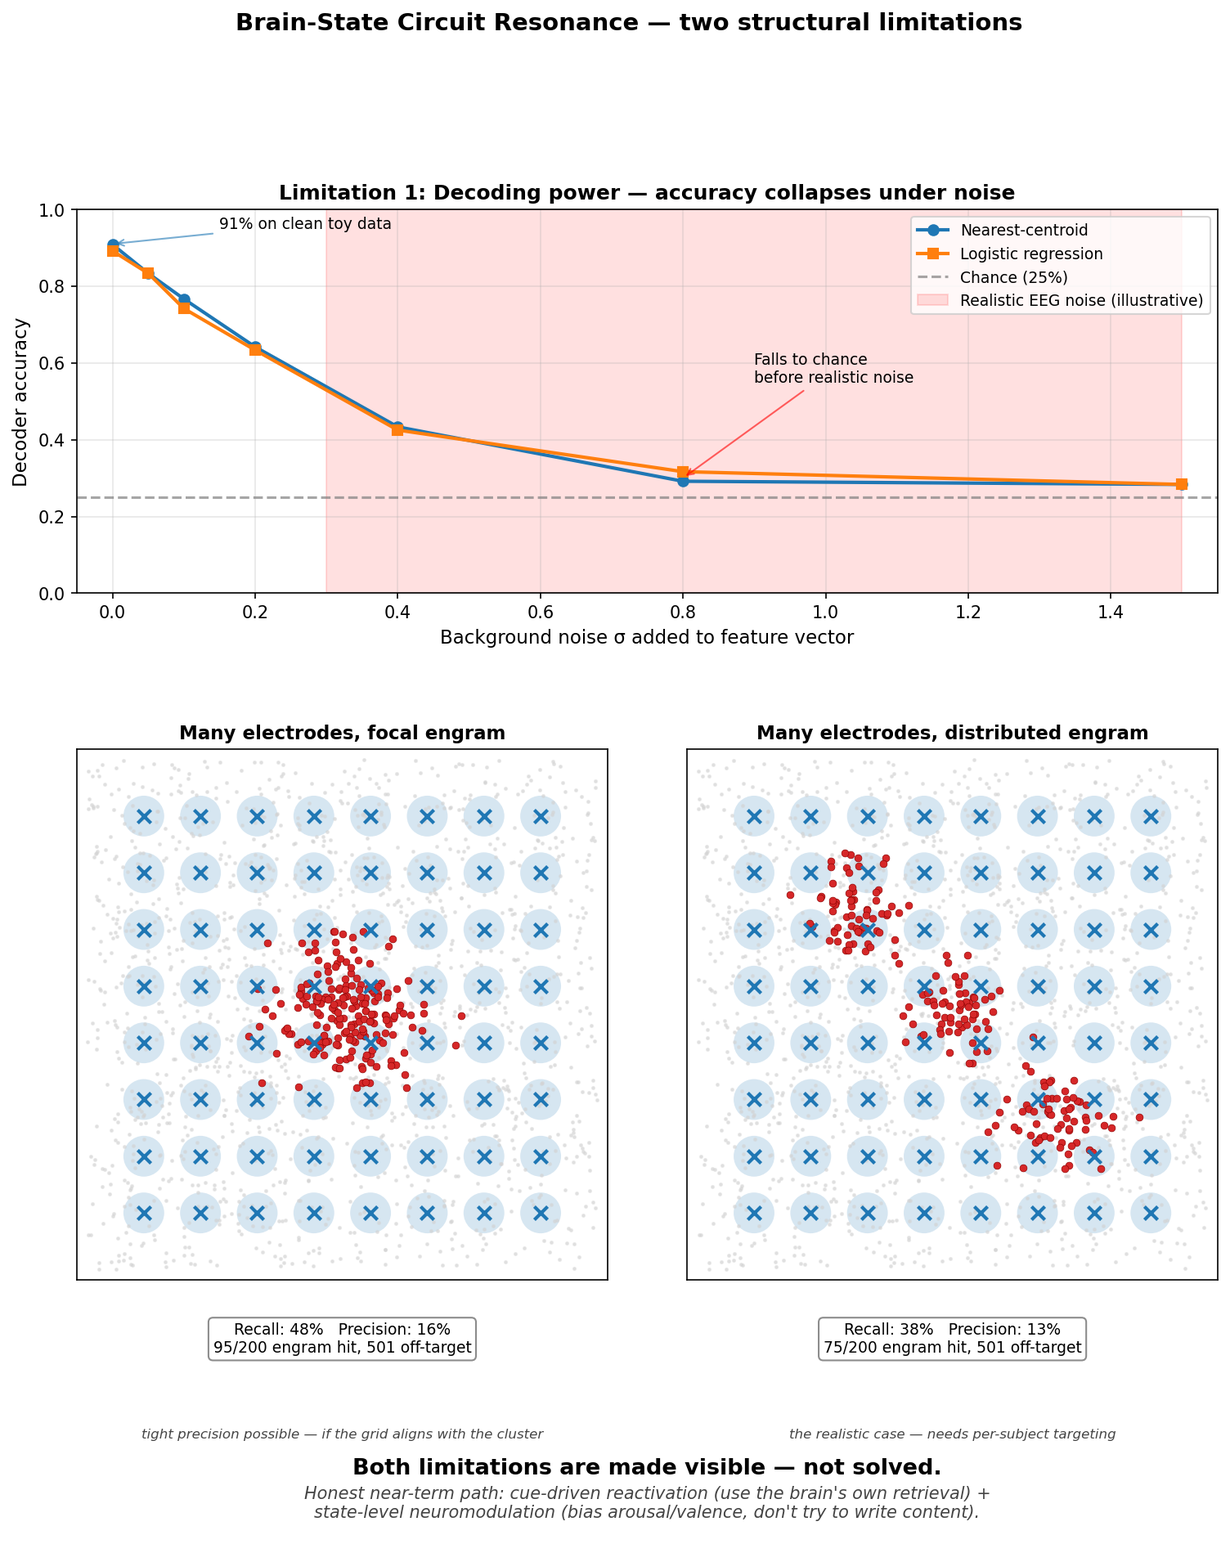
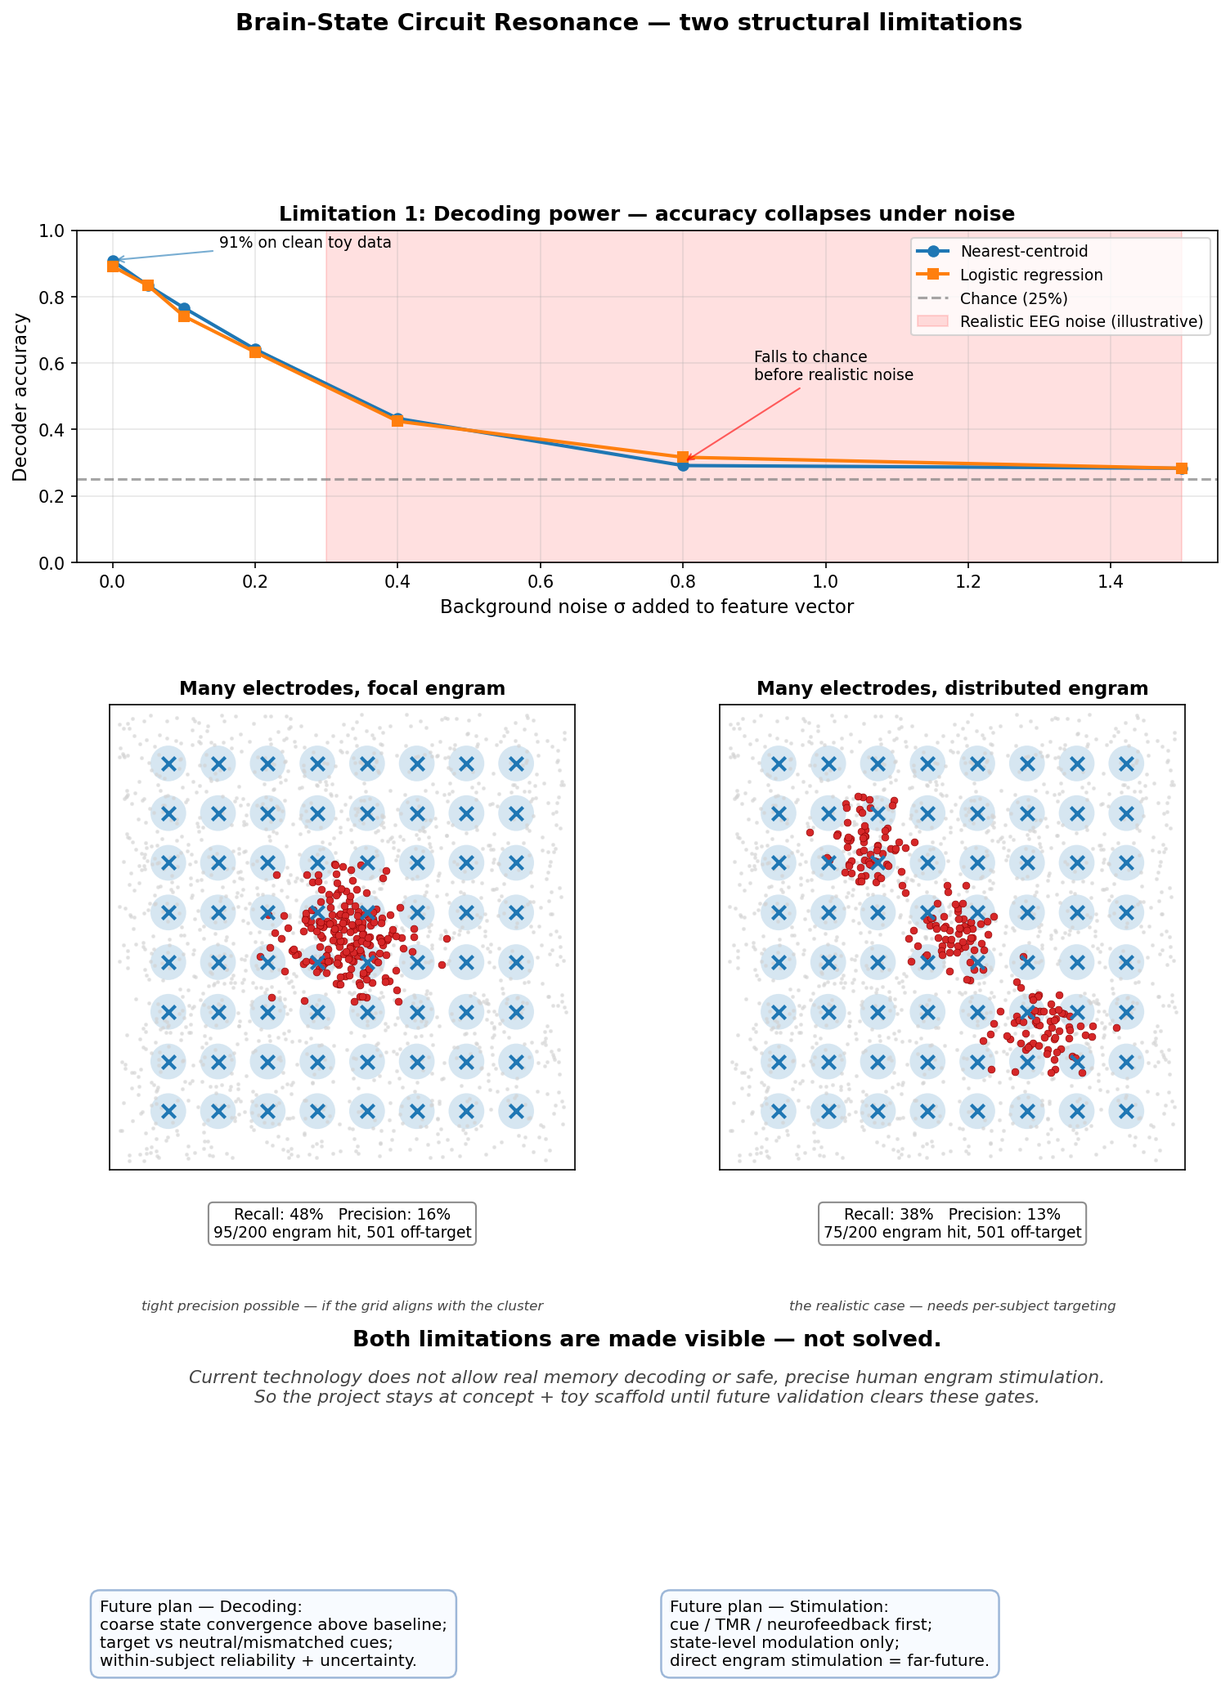
docs: clarify limitations and future plans

diff --git a/project-brief.html b/project-brief.html
@@ -9,6 +9,8 @@
 <body class="brief-page">
   <header class="brief-hero">
     <nav class="journey-nav" aria-label="Project navigation">
+      <a href="index.html">Home</a>
+      <a href="#presentation-path">Start</a>
       <a href="project-brief.html" aria-current="page">Project brief</a>
       <a href="journey.html">Process journey</a>
       <a href="index.html">3D mindmap</a>
@@ -18,7 +20,7 @@
     <p class="eyebrow">Project brief</p>
     <h1>Brain-State Circuit Resonance</h1>
     <p class="thesis">Photos record what we saw. Brain-State Circuit Replay asks whether we can reconstruct what we were.</p>
-    <p class="brief-hook"><strong>Public boundary:</strong> this site uses Brain-State Circuit Resonance for the careful version: bounded, partial state resonance rather than exact replay, literal time travel, or current brain-state reconstruction.</p>
+    <p class="brief-hook"><strong>Public boundary:</strong> this site uses Brain-State Circuit Resonance for the careful version: bounded, partial state resonance rather than exact replay, literal time travel, or current brain-state reconstruction. <strong>Resonance over Recreation:</strong> any past-associated state work should return the person to present agency, not trap them in the past.</p>
     <p class="brief-hook">This project turns the fear that a meaningful present is unrevisitable into a bounded neuroscience/BCI and systems-engineering thesis: a future closed-loop scaffold may help people safely re-approach parts of a past-associated integrated self-state, while keeping uncertainty, validation boundaries, exact memory replay, literal time travel, and brain-derived claims outside the current scope.</p>
   </header>
 
@@ -46,6 +48,7 @@
           <li><strong>Open this brief first.</strong> State the hook and the boundary before showing the demo.</li>
           <li><strong>Show the process journey.</strong> Walk through the path from motivation to state estimation, uncertainty, and safety gate.</li>
           <li><strong>Open the 3D mindmap.</strong> Use it as a concept map and systems scaffold, not as evidence that the system reads brains.</li>
+          <li><strong>Close with future research.</strong> Use the horizon page to separate open questions from implemented capabilities.</li>
           <li><strong>End with next engineering milestones.</strong> Explain how the thesis becomes stronger through literature mapping, toy state-space modeling, validation criteria, and explicit ethics.</li>
         </ol>
       </section>
@@ -231,7 +234,7 @@
         <p class="eyebrow">Current artifacts</p>
         <h2>What Exists in This Repository</h2>
         <div class="artifact-list">
-          <a href="journey.html"><strong>Process journey</strong><span>Six-step walkthrough of the argument and safety gate.</span></a>
+          <a href="journey.html"><strong>Process journey</strong><span>Seven-step walkthrough from motivation to safety gate and future research horizon.</span></a>
           <a href="index.html"><strong>3D mindmap</strong><span>Interactive concept map separating known science, plausible bridge, and speculation.</span></a>
           <a href="#problem"><strong>Full thesis summary</strong><span>Readable synthesis of the Unreturnable Present Paradox and integrated self-state model.</span></a>
           <a href="#scientific-anchors"><strong>Research anchors</strong><span>Presentation-safe summary of memory, TMR, closed-loop stimulation, prostheses, and neurofeedback.</span></a>
@@ -266,6 +269,8 @@
         <p class="eyebrow">Next steps</p>
         <h2>How to Make It Stronger</h2>
         <ul>
+          <li><strong>Decoding plan:</strong> make the next empirical target coarse state convergence above baseline, not memory decoding. Compare target cues with neutral/mismatched cues, require within-subject reliability, and show uncertainty instead of a single replay score.</li>
+          <li><strong>Stimulation plan:</strong> treat direct engram stimulation as far-future. Lead with cue-driven reactivation, Targeted Memory Reactivation, neurofeedback, and state-level modulation; require reversibility, stop criteria, and off-target risk checks before any stronger intervention.</li>
           <li>Extend the citation table with claim status, modality, validation boundary, and limitation columns.</li>
           <li>Add a small attractor/state-space simulation showing why partial reconstruction is possible in toy form but exact replay is unstable.</li>
           <li>Add a privacy and consent threat model for any future brain/body-state recording layer.</li>

diff --git a/future-research.html b/future-research.html
@@ -9,6 +9,8 @@
 <body class="brief-page">
   <header class="brief-hero">
     <nav class="journey-nav" aria-label="Project navigation">
+      <a href="index.html">Home</a>
+      <a href="project-brief.html#presentation-path">Start</a>
       <a href="project-brief.html">Project brief</a>
       <a href="journey.html">Process journey</a>
       <a href="index.html">3D mindmap</a>
@@ -51,7 +53,7 @@
           <li><strong>Neuralink surgical robot / implantation workflow reports:</strong> treat as secondary and low-confidence until an official source is added to this page. The interesting signal is infrastructure: reports describe efforts to make electrode-thread implantation more repeatable and scalable. That matters for future BCI access, but implantation repeatability is not decoding, and it says nothing by itself about memory reconstruction. <a href="https://www.eandtmagazine.com/2026/05/01/neuralink-builds-surgical-robot-implant-its-brain-chip-humans">Secondary report</a></li>
           <li><strong>arXiv 2605.04680, "Multi-Level Bidirectional Biomimetic Learning for EEG-Based Visual Decoding" (2026-05-06):</strong> watch as an EEG visual-decoding representation paper, not as exact memory reading. The relevant boundary for Resonance is that reconstructing or aligning visual representations from EEG remains a lossy model output tied to task data, not access to a private remembered scene. <a href="https://arxiv.org/abs/2605.04680">arXiv</a></li>
           <li><strong>arXiv 2605.03874, "Spatiotemporal Convolutions on EEG signal -- A Representation Learning Perspective on Efficient and Explainable EEG Classification with Convolutional Neural Nets" (2026-05-05):</strong> watch for efficient EEG state-classification methods and explainability claims. The boundary is classification: separating task or state labels from EEG features is not the same as reading a lived self-state or recovering a circuit trace. <a href="https://arxiv.org/abs/2605.03874">arXiv</a></li>
-          <li><strong>arXiv 2605.03169, "NeuralSet: A High-Performing Python Package for Neuro-AI" (2026-05-04):</strong> watch as possible tooling and scaffold relevance. A PyTorch-ready neuro-AI data interface could inform future simulation, provenance, or multimodal dataset organization, but it would not validate the current toy model or supply biological evidence by itself. <a href="https://arxiv.org/abs/2605.03169">arXiv</a></li>
+          <li><strong>arXiv 2605.03169, "NeuralSet: A High-Performing Python Package for Neuro-AI" (2026-05-04):</strong> watch for possible tooling and scaffold relevance. A PyTorch-ready neuro-AI data interface could inform future simulation, provenance, or multimodal dataset organization, but it would not validate the current toy model or supply biological evidence by itself. <a href="https://arxiv.org/abs/2605.03169">arXiv</a></li>
         </ul>
         <p class="brief-caveat"><strong>Presentation boundary:</strong> cite these as signals to monitor, not claims to import. The current project remains a concept and synthetic simulation scaffold.</p>
       </section>

diff --git a/src/journey.js b/src/journey.js
@@ -38,8 +38,9 @@
     },
     {
       icon: '🌌',
-      title: 'Open horizon: what science cannot do yet',
-      copy: 'The project ends by naming future research questions rather than pretending they are solved: encoding-imminence, configured ignorance, affective topology, sleep-integrated resonance, personal corpus state archaeology, and voluntary loosening of unwanted state-attractors.',
+      title: 'Future research horizon',
+      copy: 'The journey ends by naming what remains unsolved: encoding-imminence, configured ignorance, affective topology, sleep resonance, corpus archaeology, and safe loosening of unwanted state-attractors.',
+      href: 'future-research.html',
       values: { body: 64, attention: 88, emotion: 74, context: 82, selfModel: 86, meaning: 96, ignorance: 78, safety: 90 }
     }
   ];
@@ -48,6 +49,7 @@
   const stepCount = document.getElementById('stepCount');
   const stepTitle = document.getElementById('stepTitle');
   const stepCopy = document.getElementById('stepCopy');
+  const stepLink = document.getElementById('stepLink');
   const prev = document.getElementById('prevStep');
   const next = document.getElementById('nextStep');
   const bars = {
@@ -83,6 +85,12 @@
     stepCount.textContent = `Step ${activeIndex + 1} of ${steps.length}`;
     stepTitle.textContent = step.title;
     stepCopy.textContent = step.copy;
+    if (step.href) {
+      stepLink.href = step.href;
+      stepLink.classList.remove('hidden');
+    } else {
+      stepLink.classList.add('hidden');
+    }
 
     Object.entries(step.values).forEach(([key, value]) => {
       bars[key].value = value;

diff --git a/journey.html b/journey.html
@@ -9,6 +9,8 @@
 <body class="journey-page">
   <header class="journey-header">
     <nav class="journey-nav" aria-label="Project navigation">
+      <a href="index.html">Home</a>
+      <a href="project-brief.html#presentation-path">Start</a>
       <a href="project-brief.html">Project brief</a>
       <a href="index.html">3D mindmap</a>
       <a href="project-brief.html#thesis">Thesis</a>
@@ -31,6 +33,7 @@
         <p class="step-count" id="stepCount"></p>
         <h2 id="stepTitle"></h2>
         <p id="stepCopy"></p>
+        <a class="doc-button journey-step-link hidden" id="stepLink" href="future-research.html">Open future research horizon</a>
         <div class="state-panel" aria-label="Conceptual state dimensions">
           <div class="state-bar"><span>Body</span><meter id="barBody" min="0" max="100"></meter></div>
           <div class="state-bar"><span>Attention</span><meter id="barAttention" min="0" max="100"></meter></div>
@@ -56,7 +59,7 @@
 
   <aside class="comments-drawer" id="commentsDrawer" aria-label="Comment Mode" aria-hidden="true"></aside>
 
-  <script src="src/journey.js?v=comment-mode-v1"></script>
+  <script src="src/journey.js?v=unreturnable-present-v2"></script>
   <script src="src/comments.js?v=comment-mode-v1"></script>
 </body>
 </html>

diff --git a/index.html b/index.html
@@ -14,6 +14,7 @@
     </section>
 
     <nav class="quick-dock" aria-label="Primary navigation">
+      <a class="dock-button" href="project-brief.html#presentation-path">Start here</a>
       <a class="dock-button" href="project-brief.html">Project brief</a>
       <a class="dock-button" href="journey.html">Guided journey</a>
       <a class="dock-button" href="docs/unreturnable-present-paradox.md">Thesis doc</a>
@@ -126,6 +127,7 @@
 
     <aside class="first-visit-strip" id="firstVisitStrip" aria-label="How to start">
       <button class="overlay-close" type="button" data-close-target="firstVisitStrip" aria-label="Hide quick start">×</button>
+      <p><strong>Boundary:</strong> this mindmap is a concept scaffold, not a brain recording, memory decoder, clinical tool, or medical claim.</p>
       <ol>
         <li><span>1</span><strong>Read the project brief</strong></li>
         <li><span>2</span><strong>Use guided journey</strong></li>

diff --git a/style.css b/style.css
@@ -415,6 +415,13 @@ h1 {
   list-style: none;
 }
 
+.first-visit-strip p {
+  margin: 0 0 10px;
+  color: #f6e7aa;
+  font-size: 0.84rem;
+  line-height: 1.35;
+}
+
 .first-visit-strip li {
   display: flex;
   gap: 9px;
@@ -853,6 +860,10 @@ input[type="range"] {
 
 .doc-button.hidden {
   display: none;
+}
+
+.journey-step-link {
+  margin: 12px 0 0;
 }
 
 .boundary-card {

diff --git a/scripts/plot_limitations_figures.py b/scripts/plot_limitations_figures.py
@@ -203,8 +203,8 @@ def plot_spatial_coverage(out_path: Path, fig=None, axes=None) -> None:
 # ---------------------------------------------------------------------------
 
 def plot_summary(out_path: Path) -> None:
-    fig = plt.figure(figsize=(12, 14))
-    gs = fig.add_gridspec(3, 2, height_ratios=[1.0, 1.4, 0.25], hspace=0.45, wspace=0.15)
+    fig = plt.figure(figsize=(12, 15.5))
+    gs = fig.add_gridspec(4, 2, height_ratios=[1.0, 1.4, 0.36, 0.36], hspace=0.55, wspace=0.15)
 
     # Top: decoder curve spans both columns
     ax_top = fig.add_subplot(gs[0, :])
@@ -237,15 +237,35 @@ def plot_summary(out_path: Path) -> None:
     ax_caption = fig.add_subplot(gs[2, :])
     ax_caption.axis("off")
     ax_caption.text(
-        0.5, 0.6,
+        0.5, 0.72,
         "Both limitations are made visible — not solved.",
         ha="center", fontsize=13, fontweight="bold",
     )
     ax_caption.text(
-        0.5, 0.15,
-        "Honest near-term path: cue-driven reactivation (use the brain's own retrieval) +\n"
-        "state-level neuromodulation (bias arousal/valence, don't try to write content).",
-        ha="center", fontsize=10, style="italic", color="#444",
+        0.5, 0.25,
+        "Current technology does not allow real memory decoding or safe, precise human engram stimulation.\n"
+        "So the project stays at concept + toy scaffold until future validation clears these gates.",
+        ha="center", fontsize=10.5, style="italic", color="#444",
+    )
+
+    ax_plan = fig.add_subplot(gs[3, :])
+    ax_plan.axis("off")
+    plan_box = dict(boxstyle="round,pad=0.55", facecolor="#f8fbff", edgecolor="#9db7d8", linewidth=1.2)
+    ax_plan.text(
+        0.02, 0.5,
+        "Future plan — Decoding:\n"
+        "coarse state convergence above baseline;\n"
+        "target vs neutral/mismatched cues;\n"
+        "within-subject reliability + uncertainty.",
+        ha="left", va="center", fontsize=9.6, bbox=plan_box,
+    )
+    ax_plan.text(
+        0.52, 0.5,
+        "Future plan — Stimulation:\n"
+        "cue / TMR / neurofeedback first;\n"
+        "state-level modulation only;\n"
+        "direct engram stimulation = far-future.",
+        ha="left", va="center", fontsize=9.6, bbox=plan_box,
     )
 
     fig.suptitle("Brain-State Circuit Resonance — two structural limitations",

diff --git a/README.md b/README.md
@@ -22,12 +22,12 @@ This project does **not** claim literal time travel, medical treatment, exact hu
 
 Open these four artifacts first:
 
-1. **Live prototype / 3D mindmap:** https://rola2005-klc.github.io/brain-state-circuit-replay/
+1. **Project brief / start path:** https://rola2005-klc.github.io/brain-state-circuit-replay/project-brief.html
 2. **Process journey:** https://rola2005-klc.github.io/brain-state-circuit-replay/journey.html
-3. **Future research directions:** https://rola2005-klc.github.io/brain-state-circuit-replay/future-research.html
-4. **Full thesis source:** [`docs/unreturnable-present-paradox.md`](docs/unreturnable-present-paradox.md)
+3. **Live prototype / 3D mindmap:** https://rola2005-klc.github.io/brain-state-circuit-replay/
+4. **Future research horizon:** https://rola2005-klc.github.io/brain-state-circuit-replay/future-research.html
 
-Then check the clean public brief and scientific foundation: [`project-brief.html`](project-brief.html), [`docs/presentable-foundation.md`](docs/presentable-foundation.md)
+Then check the full thesis source and scientific foundation: [`docs/unreturnable-present-paradox.md`](docs/unreturnable-present-paradox.md), [`docs/presentable-foundation.md`](docs/presentable-foundation.md)
 
 ## Presentation Path
 
@@ -36,16 +36,16 @@ Use [`project-brief.html`](project-brief.html) as the clean entry point. It give
 Recommended flow:
 
 1. Start on [`project-brief.html`](project-brief.html) and read the hook plus boundary.
-2. Open [`journey.html`](journey.html) and walk through the six-step process.
-3. Open [`future-research.html`](future-research.html) to show the creative frontier: what current science cannot do yet and what a responsible research path could ask.
-4. Open [`index.html`](index.html) only after the boundary is clear: it is a concept map and simulation scaffold, not brain-derived output.
+2. Open [`journey.html`](journey.html) and walk through the seven-step process.
+3. Open [`index.html`](index.html) only after the boundary is clear: it is a concept map and simulation scaffold, not brain-derived output.
+4. Open [`future-research.html`](future-research.html) as the closing horizon: what current science cannot do yet and what a responsible research path could ask.
 5. Keep the source Markdown docs available for deeper questions.
 
 Audience paths:
 
 - **Researchers:** start with the [full thesis](docs/unreturnable-present-paradox.md), then read the [native memory trace explainer](docs/native-memory-trace-reactivation.md), [research map](docs/research.md), [future research directions](future-research.html), and [data model](docs/data-model.md).
-- **Internship reviewers:** start with the [3D mindmap](index.html), skim the [process journey](journey.html), then inspect the [future research page](future-research.html), [foundation](docs/presentable-foundation.md), [presentation outline](docs/presentation-outline.md), tests, and synthetic data scripts.
-- **General viewers:** start with the [process journey](journey.html), then use the [3D mindmap](index.html) to explore the idea visually.
+- **Internship reviewers:** start with the [project brief](project-brief.html), skim the [process journey](journey.html), inspect the [3D mindmap](index.html), then close with the [future research page](future-research.html), [foundation](docs/presentable-foundation.md), [presentation outline](docs/presentation-outline.md), tests, and synthetic data scripts.
+- **General viewers:** start with the [project brief](project-brief.html), follow the [process journey](journey.html), then use the [3D mindmap](index.html) before the [future research horizon](future-research.html).
 
 ## Project thesis
 
@@ -164,7 +164,7 @@ the repo:
    ([`docs/stimulation-coverage-precision.md`](docs/stimulation-coverage-precision.md))
    surveys engram localization and modality tradeoffs.
 
-Full writeup: [`docs/limitations.md`](docs/limitations.md).
+Full writeup and future plan: [`docs/limitations.md`](docs/limitations.md). The key stance is that current technology does **not** yet allow real memory decoding or safe, precise engram stimulation; near-term work should test coarse state convergence, cue-driven reactivation, neurofeedback, uncertainty displays, and safety gates rather than claiming replay.
 
 ## Repository structure
 

diff --git a/docs/limitations.md b/docs/limitations.md
@@ -53,6 +53,32 @@ classifier.
 The repo is honest about this: the synthetic pipeline is a scaffold, not
 evidence.
 
+### Future plan for decoding
+
+Current technology does **not** allow this project to decode a real past
+memory, a private scene, or an exact integrated self-state. The responsible
+next step is narrower: test whether a system can estimate **coarse,
+self-reported state dimensions** above baseline under controlled cueing.
+
+A realistic future plan would proceed in stages:
+
+1. **Baseline-first validation.** Compare target cues against neutral and
+   mismatched cues, and report whether the model does better than random or
+   simple affect labels.
+2. **Coarse state targets only.** Predict bounded dimensions such as affect,
+   attention, context vividness, body state, self-continuity, meaning, and
+   safety — not memory content.
+3. **Within-subject reliability.** Ask whether the same person produces a
+   repeatable target-state signature across sessions before attempting any
+   cross-subject generalization.
+4. **Multimodal support.** Treat EEG, physiology, behavior, and self-report as
+   partial correlates. None of them should be framed as an engram readout.
+5. **Uncertainty display.** Show confidence, null baselines, and failure modes
+   instead of a single pseudo-precise “replay score.”
+
+Success would mean evidence for partial state convergence relative to a null
+baseline. It would still not mean exact memory replay.
+
 ## Limitation 2 — Stimulation: coverage and precision
 
 > Where in the brain does memory live, and can a finite array of electrodes
@@ -106,6 +132,33 @@ Targeted Memory Reactivation) and **state-level neuromodulation** rather than
 direct content writing. The project's existing `cue` and `mimo` synthetic
 protocols already point this way; this should be the framing the project
 leads with.
+
+### Future plan for stimulation
+
+Current technology does **not** allow safe, precise stimulation of a specific
+human memory engram. The project should therefore treat direct stimulation as
+a far-future research frontier, not as an implemented or near-term capability.
+
+A responsible plan would move from least invasive to most speculative:
+
+1. **Cue-first protocols.** Start with photos, sound, smell, place, narrative,
+   and sleep-compatible cues that work through native retrieval circuits.
+2. **Targeted Memory Reactivation and neurofeedback.** Explore whether
+   non-invasive feedback or sleep cueing can bias broad state dynamics without
+   claiming direct content insertion.
+3. **State-level modulation only.** If stimulation is considered, frame it as
+   coarse regulation of arousal, attention, or affective state — not writing a
+   memory back into the brain.
+4. **Subject-specific localization.** Any stronger intervention would require
+   individualized mapping, invasive validation, temporal pattern control, and
+   off-target risk measurement.
+5. **Safety gates.** Require reversibility, stop criteria, distress monitoring,
+   consent renewal, and a return-to-present endpoint before optimizing any
+   resonance effect.
+
+The practical near-term plan is therefore not “stimulate the memory.” It is
+“use conservative cues and feedback to test whether partial, safe resonance is
+possible while preserving present agency.”
 
 ## One-page summary
 
